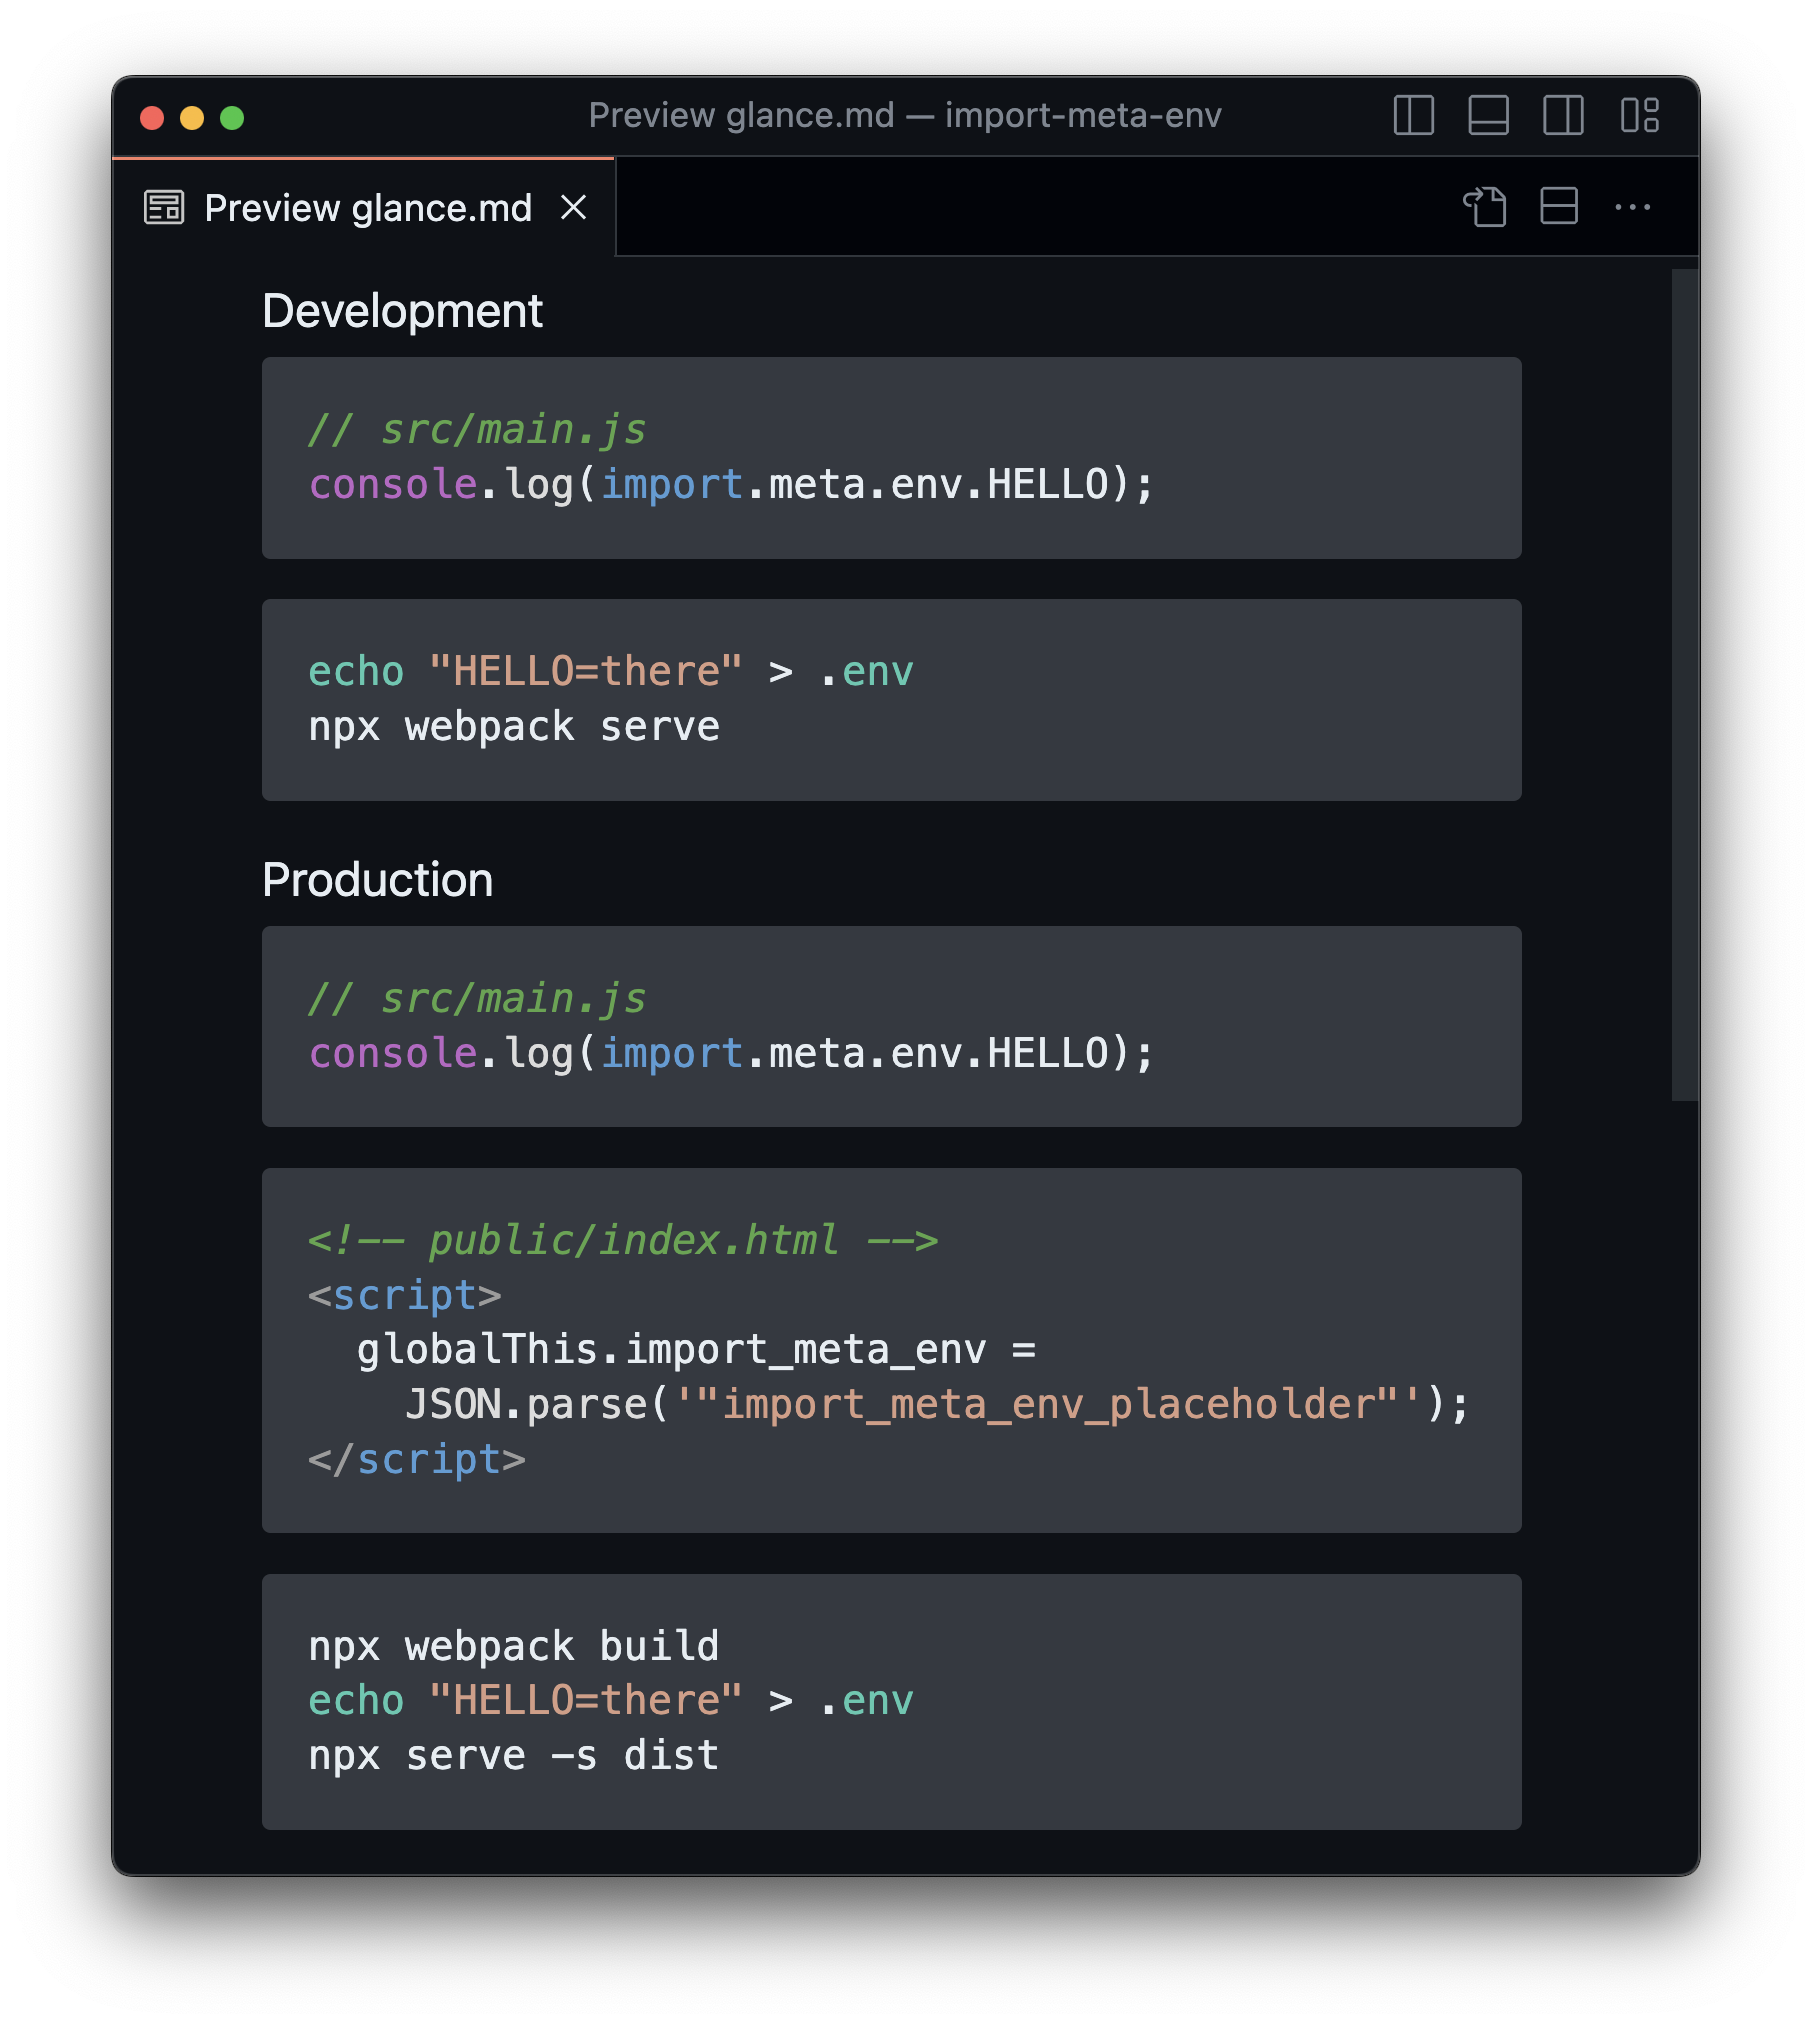
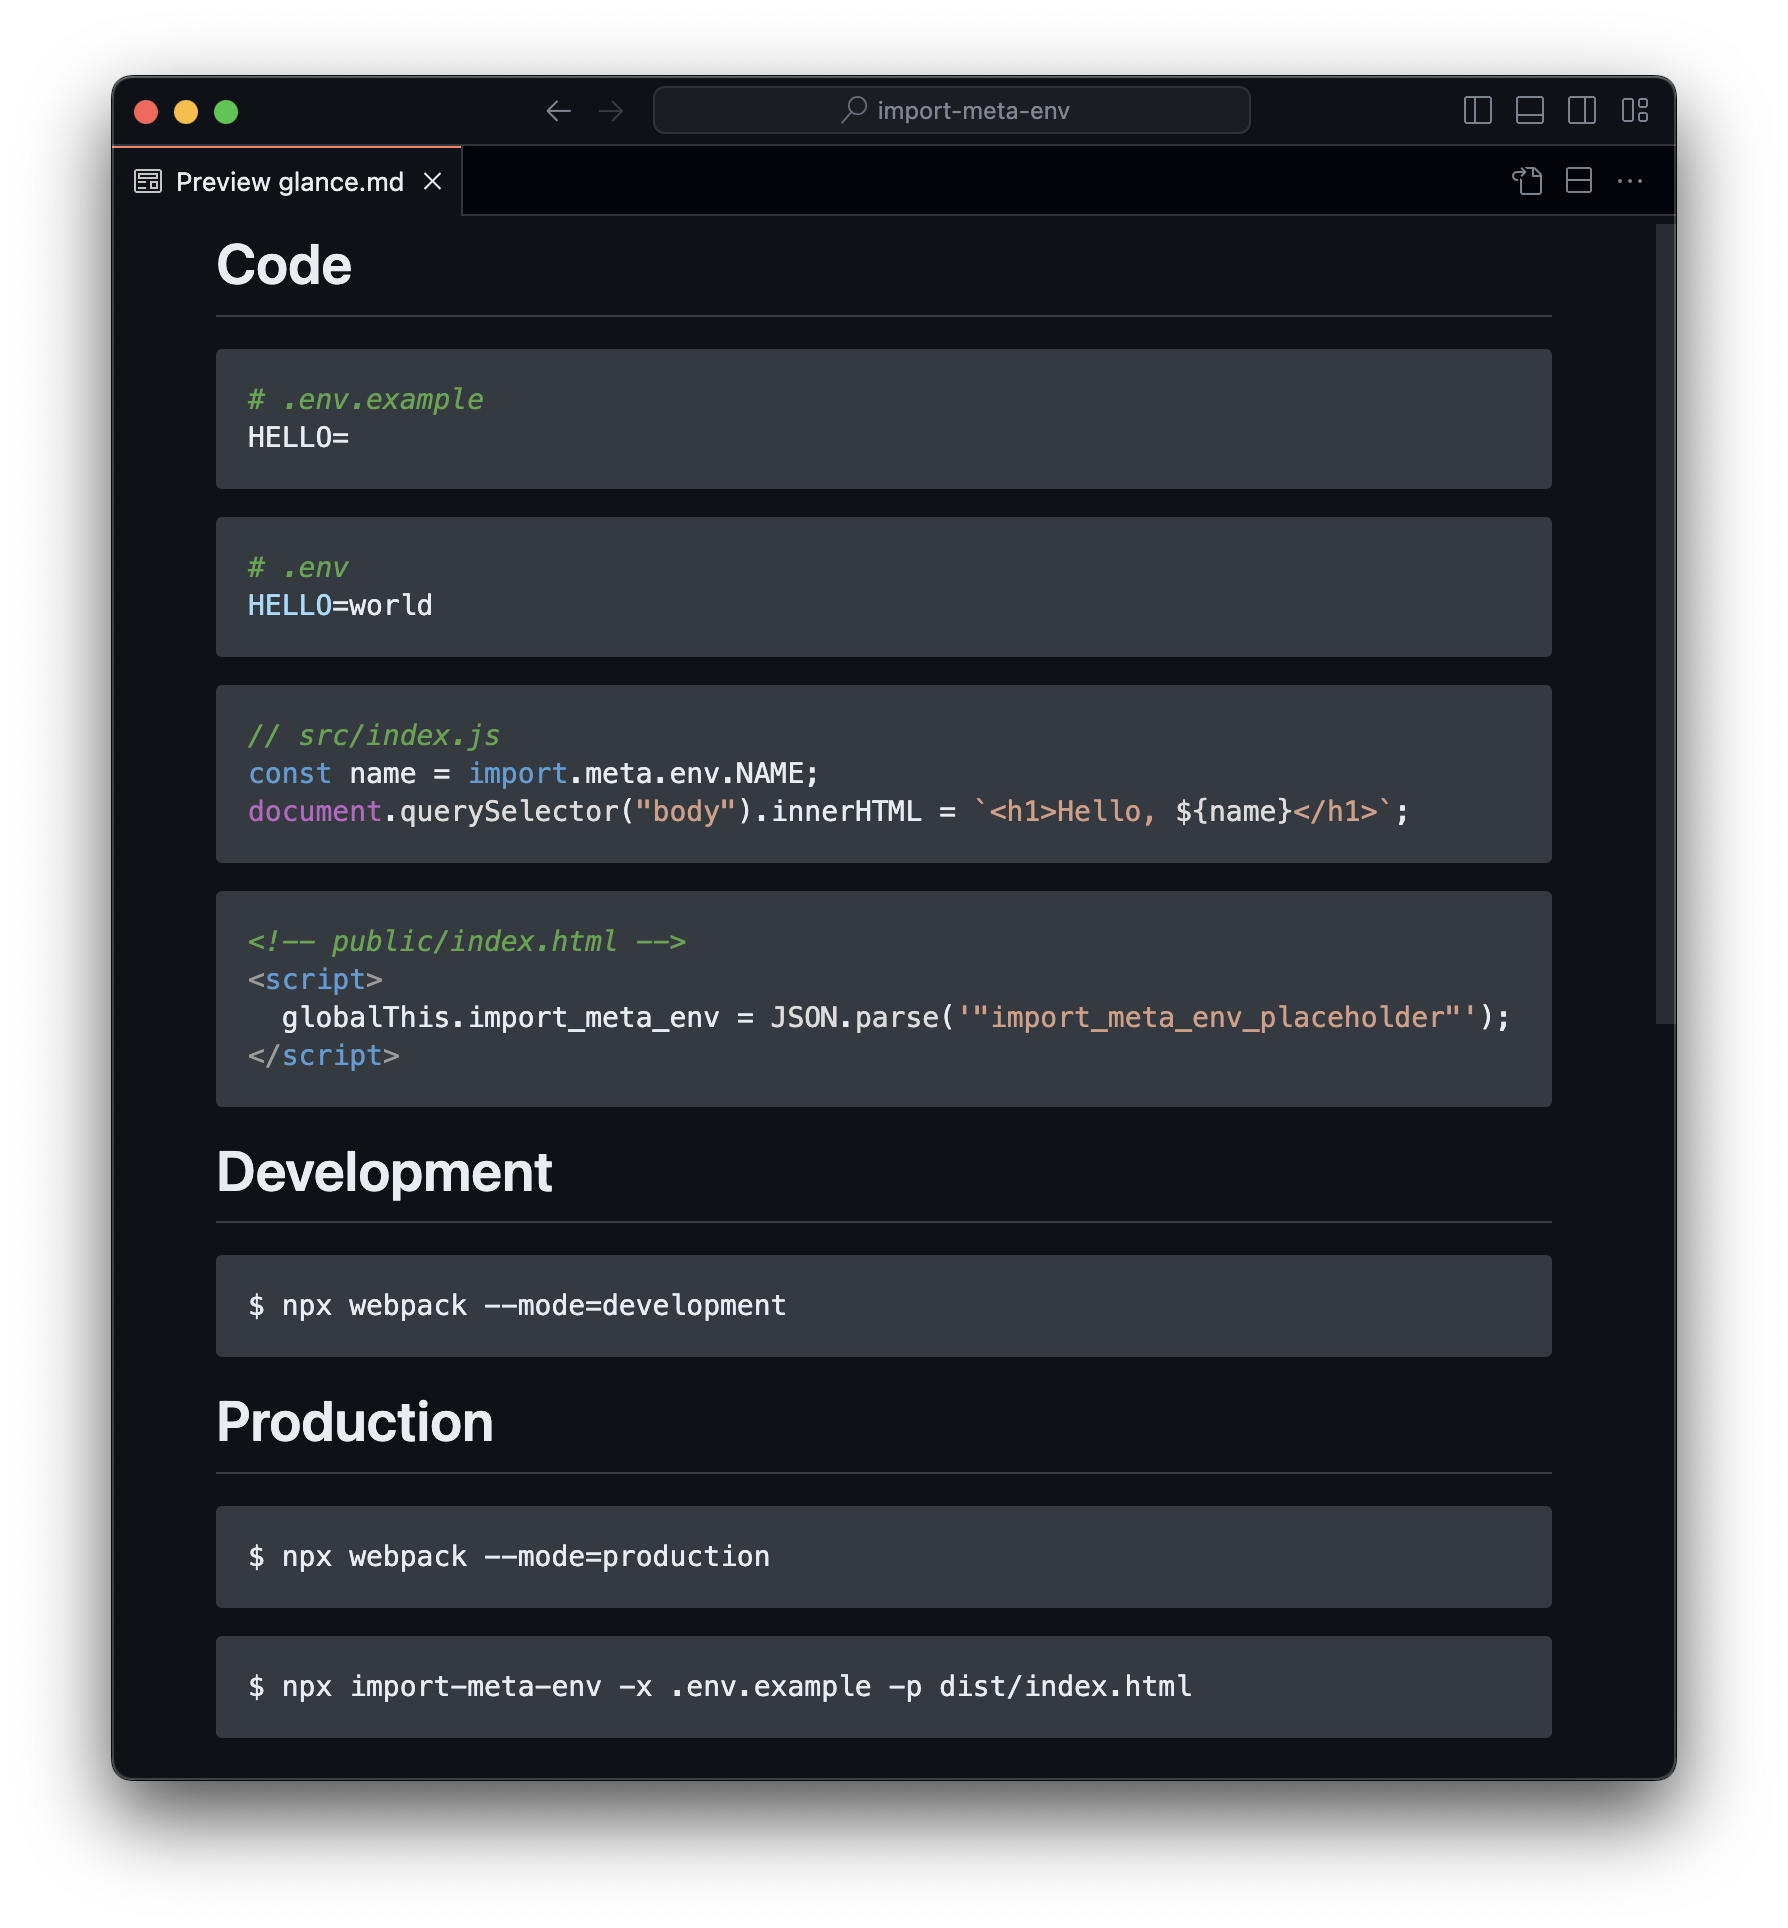
docs: update (#1112)

Changed region(s): [[0.0615, 0.0311, 0.9536, 0.9336], [0.769, 0.0311, 0.9536, 0.5602]]

diff --git a/docs/guide/getting-started/introduction.md b/docs/guide/getting-started/introduction.md
@@ -18,6 +18,8 @@
 
 > In this guide, we will use Webpack as an example, but you can also use other build tools. All supported build tools can be found on the [compile-time transform plugin](/guide/getting-started/compile-time-transform.html)s page.
 
+![](/glance.png)
+
 ### Write your code
 
 1. To prevent accidentally leaking environment variables to the client, you need to list public environment variables in an example file (e.g., `.env.example`):
@@ -54,7 +56,7 @@ $ npm i -D dotenv
 
      ```ini
      # .env
-     NAME=world
+     NAME=development
      ```
 
      See the [`.env` file](#env-file) section for details.
@@ -87,7 +89,7 @@ $ npm i -D dotenv
      ```diff
      // dist/main.js
      - const name = import.meta.env.NAME
-     + const name = "world"
+     + const name = "developemnt"
      // ...
      ```
 
@@ -107,6 +109,12 @@ $ npm i -D dotenv
            env: ".env",
            example: ".env.example",
      -     transformMode: "compile-time",
+     +     // If you are using popular packagers such as Webpack and Vite,
+     +     // @import-meta-env/unplugin will automatically switch the `transformMode` for you:
+     +     // - for development mode, `transformMode` will be `"compile-time"`
+     +     // - for production mode, `transformMode` will be `"runtime"`
+     +
+     +     // Otherwise, you need to set `transformMode` according to your needs:
      +     transformMode: "runtime",
          }),
        ],
@@ -143,13 +151,22 @@ $ npm i -D dotenv
 
      See the [special expression](#special-expression) section for details.
 
+  1. Define environment variables:
+
+     ```ini
+     # .env
+     NAME=production
+     ```
+
+     See the [`.env` file](#env-file) section for details.
+
   1. Install [runtime transform tool](/guide/getting-started/runtime-transform.html).
 
      ```sh
      $ npm i -D @import-meta-env/cli
      ```
 
-  1. Transform it again using the packaged executable:
+  1. Transform it again:
 
      ```sh
      npx import-meta-env -x .env.example -p dist/index.html
@@ -163,7 +180,7 @@ $ npm i -D dotenv
          <meta charset="UTF-8" />
          <script>
      -     globalThis.import_meta_env = JSON.parse('"import_meta_env_placeholder"')
-     +     globalThis.import_meta_env = JSON.parse('{"NAME":"world"}');
+     +     globalThis.import_meta_env = JSON.parse('{"NAME":"production"}');
          </script>
          <script defer="defer" src="main.js"></script>
        </head>

diff --git a/docs/index.md b/docs/index.md
@@ -31,59 +31,3 @@ features:
   - title: Save Time & Money
     details: Speed up your CI/CD pipeline, you no longer need to build multiple bundles for different stages.
 ---
-
-<style>
-  #app .container > .image > .image-container > .image-src:hover {
-    cursor: zoom-in;
-  }
-
-  #app .container > .image > .image-container.zoom-in {
-    cursor: zoom-out;
-    z-index: 9999;
-    position: fixed;
-    display: flex;
-    top: 0;
-    left: 0;
-    width: 100vw;
-    height: 100vh;
-    max-width: unset;
-    max-height: unset;
-    background-color: black;
-    transform: unset;
-  }
-
-  #app .container > .image > .image-container.zoom-in > .image-src {
-    cursor: zoom-out;
-    max-width: 100vw;
-    max-height: 100vh;
-    object-fit: cover;
-  }
-</style>
-
-<script>
-  const doc = typeof document === 'object' ? document : undefined
-  function addZoomFeature() {
-    if (doc === undefined) return
-    let shouldZoomIn = true;
-    const imageContainer = doc.querySelector(".image-container");
-    const imageSrc = doc.querySelector(".image-src");
-    if (imageContainer === null || imageSrc === null) {
-      requestAnimationFrame(addZoomFeature);
-      return;
-    }
-    imageContainer.addEventListener("click", (e) => {
-      if (shouldZoomIn) {
-        if (e.target !== imageSrc) {
-          return;
-        }
-        imageContainer.classList.add("zoom-in");
-        doc.body.style.overflow = "hidden";
-      } else {
-        imageContainer.classList.remove("zoom-in");
-        doc.body.style.overflow = "unset";
-      }
-      shouldZoomIn = !shouldZoomIn;
-    });
-  }
-  addZoomFeature();
-</script>

diff --git a/docs/public/glance.md b/docs/public/glance.md
@@ -1,0 +1,40 @@
+# Code
+
+```ini
+# .env.example
+HELLO=
+```
+
+```ini
+# .env
+HELLO=world
+```
+
+```ts
+// src/index.js
+const name = import.meta.env.NAME;
+document.querySelector("body").innerHTML = `<h1>Hello, ${name}</h1>`;
+```
+
+```html
+<!-- public/index.html -->
+<script>
+  globalThis.import_meta_env = JSON.parse('"import_meta_env_placeholder"');
+</script>
+```
+
+# Development
+
+```sh
+$ npx webpack --mode=development
+```
+
+# Production
+
+```sh
+$ npx webpack --mode=production
+```
+
+```sh
+$ npx import-meta-env -x .env.example -p dist/index.html
+```
